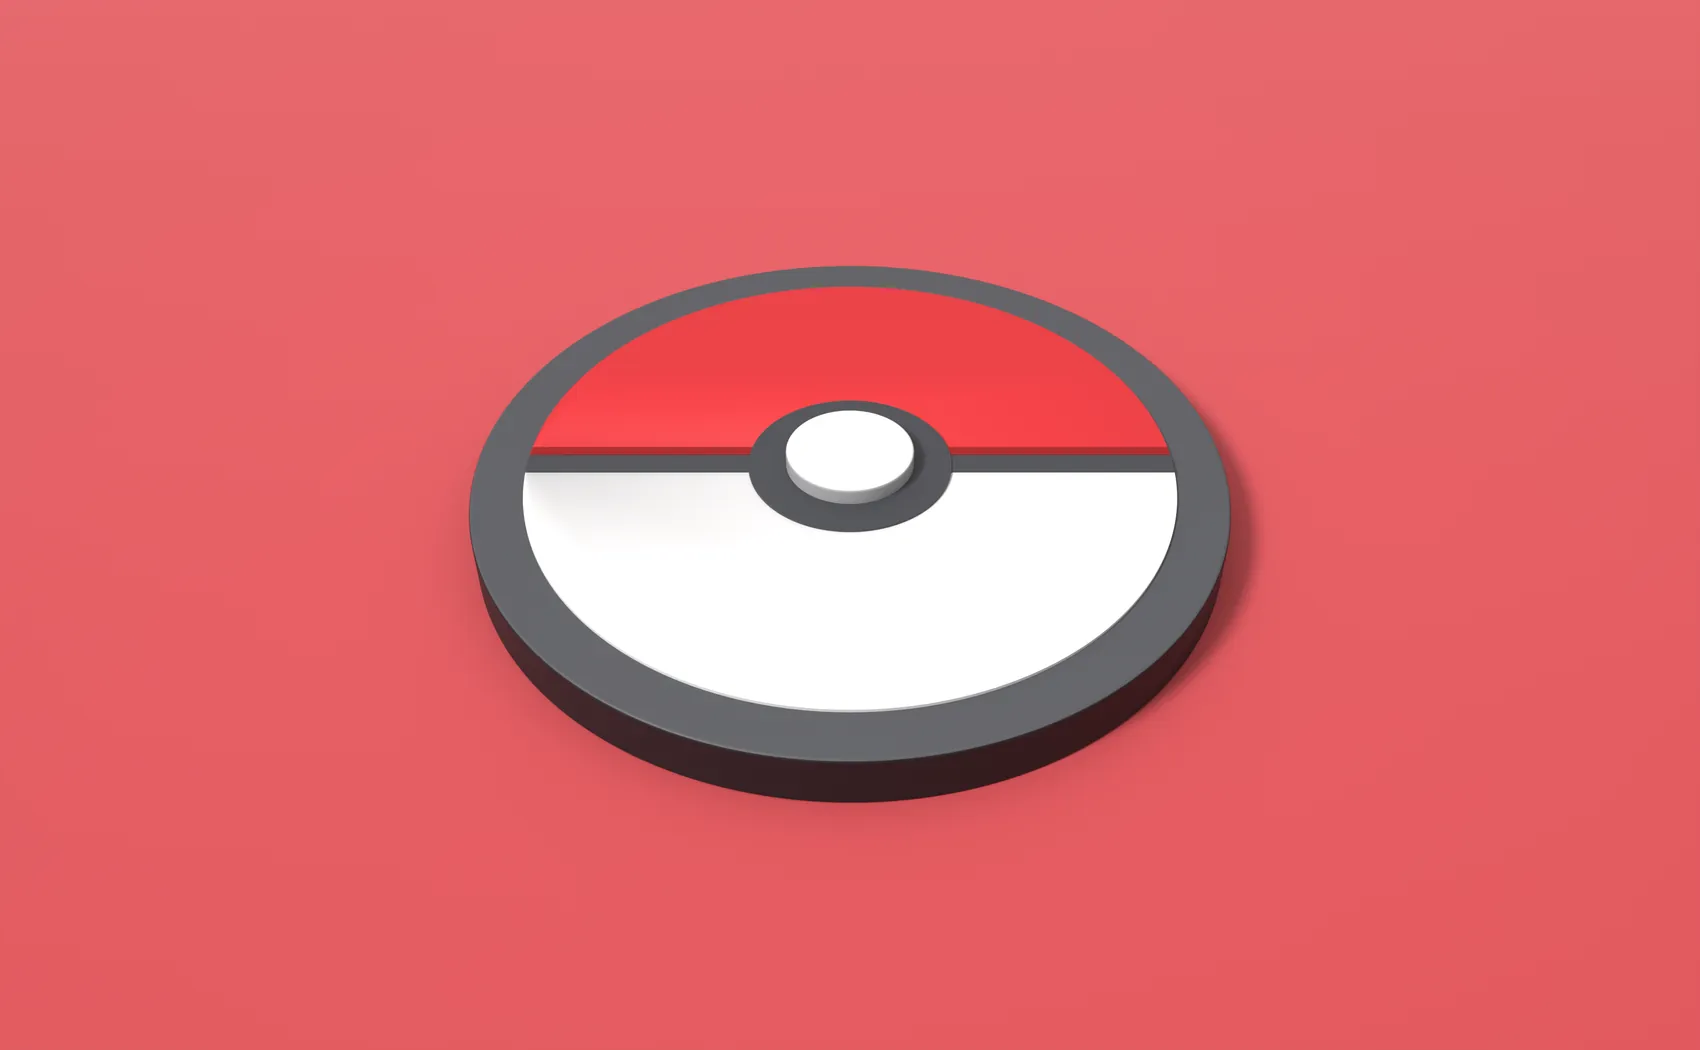
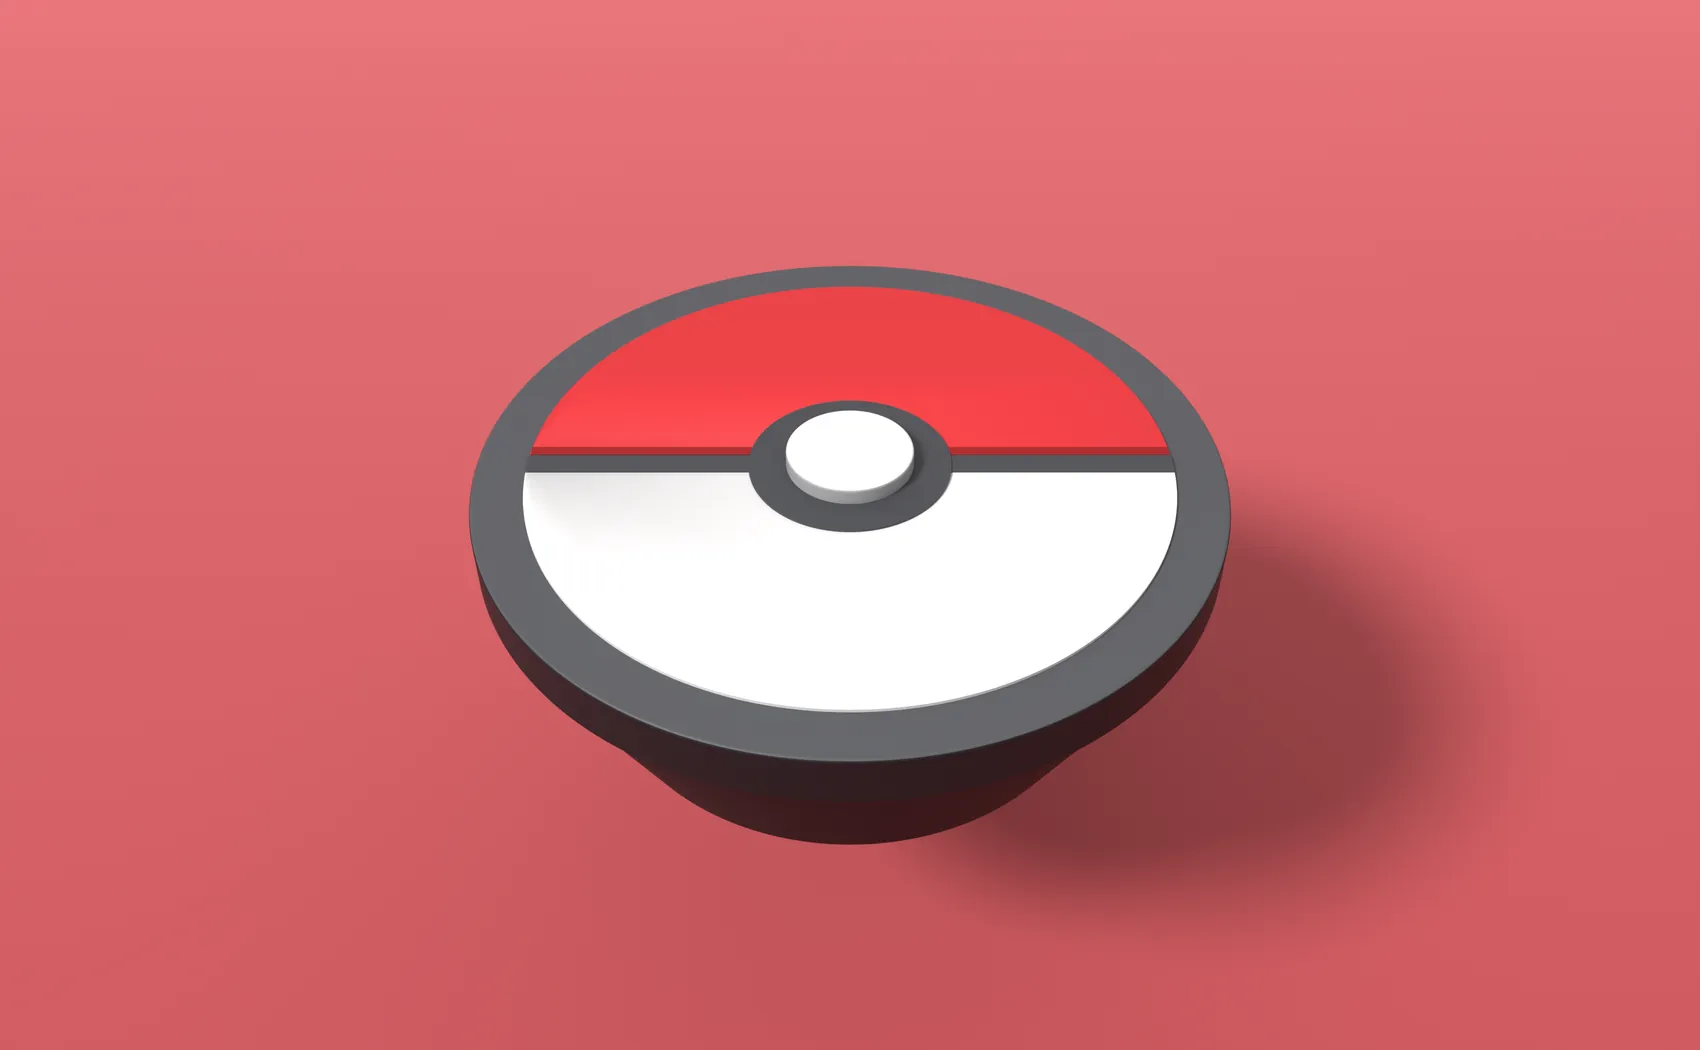
Carrusel: plataforma flotante (imagen fija) y mini plataformas circulares en lugar de las bases de Poké Ball

Changed region(s): [[0.2494, 0.4267, 0.9041, 1.0], [0.6859, 0.3962, 0.7171, 0.4267]]

diff --git a/public/board3d.js b/public/board3d.js
@@ -869,29 +869,22 @@ function makeBubble(o){
  const ring=new THREE.Mesh(barRing(1),new THREE.MeshBasicMaterial({color:BAR_COL,transparent:true,opacity:.95,depthWrite:false})); ring.rotation.x=-Math.PI/2; ring.position.y=.04; g.add(ring);
  scene.add(g); return {g,wall,ring,tex,k:1,col:BAR_COL};
 }
-const PAD_COL={poke:['#cf5a4e',null],great:['#4f7cc9','#cf6474'],ultra:['#3b3b45','#d9b84c'],master:['#7a52b8','#d987b4']}, padTex={}, padVis=new Map();
-function padTexture(kind){
- if(padTex[kind]) return padTex[kind];
- const [top,acc]=PAD_COL[kind]||PAD_COL.poke;
- return padTex[kind]=canvasTex(256,256,(c,w)=>{ const m=w/2, R=w*.46;
-   c.save(); c.beginPath(); c.arc(m,m,R,0,Math.PI*2); c.clip();
-   c.fillStyle='#ece6da'; c.fillRect(0,0,w,w); c.fillStyle=top; c.fillRect(0,0,w,m);
-   if(kind==='great'&&acc){ c.fillStyle=acc; for(const sx of [-1,1]){ c.beginPath(); c.ellipse(m+sx*R*.55,m-R*.42,R*.16,R*.36,sx*.5,0,Math.PI*2); c.fill(); } }
-   if(kind==='ultra'&&acc){ c.fillStyle=acc; c.fillRect(m-R*.75,m-R*.62,R*.32,R*.62); c.fillRect(m+R*.43,m-R*.62,R*.32,R*.62); }
-   if(kind==='master'&&acc){ c.fillStyle=acc; for(const sx of [-1,1]){ c.beginPath(); c.arc(m+sx*R*.55,m-R*.48,R*.17,0,Math.PI*2); c.fill(); }
-     c.fillStyle='#f4eef8'; c.font='bold '+(R*.42|0)+'px sans-serif'; c.textAlign='center'; c.textBaseline='middle'; c.fillText('M',m,m-R*.5); }
-   c.restore();
-   c.lineWidth=R*.09; c.strokeStyle='#2a2a33'; c.beginPath(); c.moveTo(m-R,m); c.lineTo(m+R,m); c.stroke();
-   c.beginPath(); c.arc(m,m,R,0,Math.PI*2); c.stroke();
-   c.fillStyle='#ece6da'; c.beginPath(); c.arc(m,m,R*.2,0,Math.PI*2); c.fill(); c.stroke();
- },false);
-}
+// Puesto de cada jugador: una mini plataforma circular a juego con la grande (lateral oscuro, aro gris, cara clara y una línea azul claro como las barreras); la ficha pisa su cara (TOP)
+const padVis=new Map(); let padRes=null;
+function padRes0(){
+ if(padRes) return padRes;
+ const top=canvasTex(256,256,(c,w)=>{ const m=w/2, R=w/2-1;
+   c.fillStyle='#7a7f89'; c.beginPath(); c.arc(m,m,R,0,Math.PI*2); c.fill();
+   const gr=c.createRadialGradient(m,m*.8,R*.1,m,m,R*.84); gr.addColorStop(0,'#4a4f59'); gr.addColorStop(1,'#2e3138'); c.fillStyle=gr; c.beginPath(); c.arc(m,m,R*.84,0,Math.PI*2); c.fill();
+   c.strokeStyle='#8fdcff'; c.lineWidth=R*.06; c.beginPath(); c.arc(m,m,R*.68,0,Math.PI*2); c.stroke();
+   c.strokeStyle='rgba(0,0,0,.35)'; c.lineWidth=R*.03; c.beginPath(); c.arc(m,m,R*.84,0,Math.PI*2); c.stroke(); },false);
+ return padRes={geo:new THREE.CylinderGeometry(1.15,1.08,TOP,48),side:new THREE.MeshLambertMaterial({color:'#1d1e22'}),top}; }
 function stepPads(list){
  const seen=new Set();
  for(const o of list||[]){ let v=padVis.get(o.id);
-   if(!v||v.ball!==o.ball){ if(v) scene.remove(v.m); v={ball:o.ball,m:new THREE.Mesh(new THREE.CircleGeometry(1.15,40),new THREE.MeshBasicMaterial({map:padTexture(o.ball),transparent:true,opacity:.8,depthWrite:false}))}; v.m.rotation.x=-Math.PI/2; scene.add(v.m); padVis.set(o.id,v); }
-   seen.add(o.id); const p=W3(o.x,o.y,0); v.m.position.set(p.x,.03,p.z); v.m.material.opacity=o.dim?.35:.7; }
- for(const [id,v] of padVis) if(!seen.has(id)){ scene.remove(v.m); v.m.geometry.dispose(); v.m.material.dispose(); padVis.delete(id); }
+   if(!v){ const R=padRes0(); v={m:new THREE.Mesh(R.geo,[R.side,new THREE.MeshBasicMaterial({map:R.top}),R.side])}; scene.add(v.m); padVis.set(o.id,v); }
+   seen.add(o.id); const p=W3(o.x,o.y,0); v.m.position.set(p.x,TOP/2,p.z); v.m.material[1].color.set(o.dim?'#b8bcc4':'#ffffff'); }
+ for(const [id,v] of padVis) if(!seen.has(id)){ scene.remove(v.m); v.m.material[1].dispose(); padVis.delete(id); }
 }
 function stepBubbles(list,now){
  const seen=new Set();

diff --git a/public/game.js b/public/game.js
@@ -1602,7 +1602,6 @@ function takeCarousel(p,i){ const o=G.carousel.opts[i]; if(!o||o.taken) return f
 function finishCarousel(){ const C=G.carousel; for(const o of C.opts) if(!o.taken) returnToPool(o.key,1); G.carousel=null; renderUI(); later(nextRound,400); }
 const releaseAt=idx=>8+3.5*Math.floor(idx/2); // la primera pareja sale a los 8 s (da tiempo a ver todos los Pokémon y objetos y elegir); las demás, cada 3,5 s
 // Cada pareja que sale a la vez empieza en lados opuestos (misma distancia a todos los Pokémon)
-const BALL_OF=idx=>['poke','great','ultra','master'][Math.min(3,Math.floor(idx/2))]; // ball de cada pareja de salida
 const carAng=(j,n)=>Math.floor(j/2)*Math.PI/Math.ceil(n/2)+(j%2)*Math.PI+Math.PI/8;
 // Instantánea del equipo para el historial: guarda nombre y número de Pokédex, no solo la clave (sobrevive a cambios futuros)
 function compSnap(p){ const tt=traitTiers(p), tc=traitCounts(p);
@@ -2794,8 +2793,8 @@ function draw(){
  if(!$('menu').classList.contains('hidden')||!$('auth').classList.contains('hidden')){ ctx.clearRect(0,0,view.W,view.H); return; }
  const A=playing?sceneActors():[];
  const tP=viewedPlayer(), tsp=trainerSpots();
- const bubbles=inCar?G.carousel.order.map((p,idx)=>{ const a=G.carousel.av[p.id]; if(!a||a.x==null||a.rel||a.done) return null; const left=releaseAt(idx)-G.carousel.t; const [vx,vy]=carPos(p.id,...carV(a.x,a.y)); return {id:p.id,x:vx,y:vy+geo.R*.35,ball:BALL_OF(idx),k:clamp(left/3,0,1)}; }).filter(Boolean):[];
- const pads=inCar?(()=>{ const {cx,cy,rr}=carGeo(), C=G.carousel; return C.order.map((p,idx)=>{ const a=C.av[p.id]||{}, an=carAng(idx,C.order.length), [px,py]=carV(cx+Math.cos(an)*rr*1.12,cy+Math.sin(an)*rr*1.12); return {id:p.id,x:px,y:py+geo.R*.35,ball:BALL_OF(idx),dim:!!(a.rel||a.done)}; }); })():[];
+ const bubbles=inCar?G.carousel.order.map((p,idx)=>{ const a=G.carousel.av[p.id]; if(!a||a.x==null||a.rel||a.done) return null; const left=releaseAt(idx)-G.carousel.t; const [vx,vy]=carPos(p.id,...carV(a.x,a.y)); return {id:p.id,x:vx,y:vy+geo.R*.35,k:clamp(left/3,0,1)}; }).filter(Boolean):[];
+ const pads=inCar?(()=>{ const {cx,cy,rr}=carGeo(), C=G.carousel; return C.order.map((p,idx)=>{ const a=C.av[p.id]||{}, an=carAng(idx,C.order.length), [px,py]=carV(cx+Math.cos(an)*rr*1.12,cy+Math.sin(an)*rr*1.12); return {id:p.id,x:px,y:py+geo.R*.35,dim:!!(a.rel||a.done)}; }); })():[];
  const links=[]; if(sceneLinks.length>1){ const rest=sceneLinks.slice(1); let cur=sceneLinks[0]; while(rest.length){ let bi=0,bd=1e9; rest.forEach((q,i)=>{ const d=Math.hypot(q[0]-cur[0],q[1]-cur[1]); if(d<bd){bd=d;bi=i;} }); const nx=rest.splice(bi,1)[0]; links.push([cur[0],cur[1],nx[0],nx[1]]); cur=nx; } }
  B3.render({arena:playing?bgKind():'glade',car:inCar?carGeo():null,pads,links,actors:A,bubbles,orbs:playing?orbList():[],totem:playing&&G.phase!=='carousel'?{x:geo.ox-geo.R*.35,y:cellXY(0,4)[1]-geo.R*.75}:null,
    floorCount:playing&&!inCar?floorCountSpec():null,pandora:playing&&!inCar&&tP&&tP.mods&&tP.mods.pandoraBench?[BENCH-3,BENCH-2,BENCH-1]:null,interest:playing&&G.phase!=='carousel'?{x:geo.ox-geo.R*.55,y:cellXY(0,7)[1]-geo.R*.2,dy:-geo.R*.85,n:Math.min(tP.mods.maxInterest,5,Math.floor(tP.gold/10))}:null,fx:inCombat?viewCombat().fx:[],cellPx:vXY,unitPx:unitXY,cells:{drop:dragBoard,hover:cell&&cell[1]>=4?cell[1]*7+cell[0]:-1},benchHover:bh});

diff --git a/.claude/skills/pokemon-data-asset-pipeline/scripts/carrusel-pokeball.py b/.claude/skills/pokemon-data-asset-pipeline/scripts/carrusel-pokeball.py
@@ -16,6 +16,7 @@ R = 6.825          # radio de la plataforma (k·rr en unidades del 3D)
 EL, DIST = 39.75, 28.0
 DISC = .441       # ancho de la plataforma en la imagen, en fracción del ancho (1500 px en 3400)
 CENTER_Y = 0.41     # altura del centro de la plataforma en la imagen (desde arriba): deja más suelo abajo, donde la pantalla muestra más
+SUELO = -12.0       # el suelo queda muy por debajo: la plataforma flota (su sombra cae lejos y difusa)
 
 bpy.ops.wm.read_factory_settings(use_empty=True)
 sc = bpy.context.scene
@@ -68,14 +69,18 @@ for o in (band, ln):
     bo = o.modifiers.new('recorte', 'BOOLEAN'); bpy.ops.mesh.primitive_cylinder_add(vertices=192, radius=FACE, depth=2, location=(0, 0, 0))
     cut = bpy.context.object; cut.hide_render = True; cut.hide_viewport = True; bo.operation = 'INTERSECT'; bo.object = cut
 
-# Suelo rojo (sin bordes visibles) con un degradado suave: más claro detrás, como en la referencia
-bpy.ops.mesh.primitive_plane_add(size=400, location=(0, 0, -1.0)); fl = bpy.context.object; fl.name = 'suelo'
+# Base de isla flotante bajo el disco: un cono truncado oscuro que asoma por delante
+bpy.ops.mesh.primitive_cone_add(vertices=192, radius1=R * .72, radius2=R * .98, depth=3.6, location=(0, 0, -2.8)); base = bpy.context.object; base.name = 'base'
+base.data.materials.append(mat('base', hexc('#121214'), .7)); bpy.ops.object.shade_smooth_by_angle(angle=math.radians(30))
+
+# Suelo rojo muy por debajo (sin bordes visibles), más claro a lo lejos: da profundidad
+bpy.ops.mesh.primitive_plane_add(size=600, location=(0, 0, SUELO)); fl = bpy.context.object; fl.name = 'suelo'
 mf = bpy.data.materials.new('suelo'); mf.use_nodes = True; nt = mf.node_tree; b = nt.nodes['Principled BSDF']
 b.inputs['Roughness'].default_value = .8
 tc = nt.nodes.new('ShaderNodeTexCoord'); sep = nt.nodes.new('ShaderNodeSeparateXYZ'); mr = nt.nodes.new('ShaderNodeMapRange')
 ramp = nt.nodes.new('ShaderNodeValToRGB')
-mr.inputs['From Min'].default_value = -20; mr.inputs['From Max'].default_value = 40
-ramp.color_ramp.elements[0].color = (*[c ** 2.2 for c in hexc('#b23a40')], 1); ramp.color_ramp.elements[1].color = (*[c ** 2.2 for c in hexc('#d0585d')], 1)
+mr.inputs['From Min'].default_value = -40; mr.inputs['From Max'].default_value = 60
+ramp.color_ramp.elements[0].color = (*[c ** 2.2 for c in hexc('#9a2a31')], 1); ramp.color_ramp.elements[1].color = (*[c ** 2.2 for c in hexc('#d3646a')], 1)
 nt.links.new(tc.outputs['Object'], sep.inputs[0]); nt.links.new(sep.outputs['Y'], mr.inputs['Value']); nt.links.new(mr.outputs['Result'], ramp.inputs['Fac']); nt.links.new(ramp.outputs['Color'], b.inputs['Base Color'])
 fl.data.materials.append(mf)
 

diff --git a/CLAUDE.md b/CLAUDE.md
@@ -74,7 +74,7 @@ El detalle, con los nombres de las funciones, está en la skill `autochess-syste
   - 224 aumentos, con 11 de héroe; muchos inspirados en TFT Set 18 (`ST(fases)` limita en qué fase salen: 2 = 2-1, 3 = 3-2, 4 = 4-2; `ex` agrupa las variantes que se excluyen entre sí; sin sprite propio usan uno por categoría, `CAT_IMG`). Sin aumentos de poco oro: los premios son grandes (Escalera de Sinergias, Unidos Venceremos, Zona Safari, Llamada del Clan…). La **Llamada al Caos** (prismática) y el **Eco del Caos** (oro) solo salen en 4-2 y dan un premio grande al azar sin maldiciones (`CHAOS`).
 - **Aros bajo las fichas**: solo se ven en la ficha que se arrastra o la seleccionada con clic (`spec.drag`/`spec.sel` en `board3d.js`); ni en el tablero, ni en la banca, ni en la minileyenda.
 - **Cristales de intereses**: solo se ven los ganados; cada uno brota de su hueco (sube, crece, gira y destella en 0,7 s) al alcanzar ese interés y se hunde si se pierde; una vez aparecidos están completamente quietos, igual que la torre de aumentos (`stepProps`). **No hay ningún temblor de pantalla ni de cámara, nunca** (ni en los golpes fuertes): la imagen, el 3D, la torre y los cristales quedan siempre quietos (prueba `en combate nada tiembla` en `partida.spec.js`); no lo vuelvas a añadir.
-- **Carrusel**: la primera pareja sale a los 8 s (para ver todos los Pokémon y objetos y elegir) y las demás cada 3,5 s (`releaseAt`). Cada jugador espera dentro de una **barrera azul claro** (pared translúcida con destellos que giran y aro en el suelo, `makeBubble`/`stepBubbles` en `board3d.js`; sin cúpulas): la propia barrera es el temporizador y se va abriendo en los 3 s antes de salir (`B3.bars` para las pruebas). El carrusel es más grande que antes (`CAR_K`=1,4 en `carGeo`: las fichas no crecen, hay más sitio para caminar). **Vista girada**: tu puesto queda siempre abajo (`carTheta`/`carV`; solo dibujo y ratón: la simulación y la red no giran). Tras coger su Pokémon, las personas siguen caminando con clic derecho hasta que acaba (`carmove` se acepta también con `done`; el destino se limita a un círculo de 1,2 radios); bots y ausentes vuelven a su puesto. Su fondo es una imagen: una plataforma Poké Ball sobre suelo rojo renderizada en Blender con la misma perspectiva que la cámara del carrusel (`public/arena/carrusel_pb.webp` y `carrusel_pb1x.webp`, 36 y 14 KB; `carrusel-pokeball.py` de la skill de recursos, que también da los puntos N/S/W/E de `PLAZA_IMG`), encajada con una transformación afín en el círculo del carrusel (`PLAZA_IMG`, `affineCss`); los Pokémon del carrusel usan una clave de actor estable (`'co'+i+':'+key`) para no recrear el modelo con cada mensaje del servidor.
+- **Carrusel**: la primera pareja sale a los 8 s (para ver todos los Pokémon y objetos y elegir) y las demás cada 3,5 s (`releaseAt`). Cada jugador sale de su **mini plataforma** circular (cilindro bajo de altura `TOP` con cara gris pizarra, aro claro y una línea azul claro; `stepPads`, ya sin las bases de Poké Ball de colores) y espera dentro de una **barrera azul claro** (pared translúcida con destellos que giran y aro en el suelo, `makeBubble`/`stepBubbles` en `board3d.js`; sin cúpulas): la propia barrera es el temporizador y se va abriendo en los 3 s antes de salir (`B3.bars` para las pruebas). El carrusel es más grande que antes (`CAR_K`=1,4 en `carGeo`: las fichas no crecen, hay más sitio para caminar). **Vista girada**: tu puesto queda siempre abajo (`carTheta`/`carV`; solo dibujo y ratón: la simulación y la red no giran). Tras coger su Pokémon, las personas siguen caminando con clic derecho hasta que acaba (`carmove` se acepta también con `done`; el destino se limita a un círculo de 1,2 radios); bots y ausentes vuelven a su puesto. Su fondo es una imagen fija (sin animaciones): una plataforma Poké Ball **flotando** (base cónica oscura debajo y el suelo rojo muy abajo, `SUELO`, con la sombra lejos y difusa) renderizada en Blender con la misma perspectiva que la cámara del carrusel (`public/arena/carrusel_pb.webp` y `carrusel_pb1x.webp`, 36 y 14 KB; `carrusel-pokeball.py` de la skill de recursos, que también da los puntos N/S/W/E de `PLAZA_IMG`), encajada con una transformación afín en el círculo del carrusel (`PLAZA_IMG`, `affineCss`); los Pokémon del carrusel usan una clave de actor estable (`'co'+i+':'+key`) para no recrear el modelo con cada mensaje del servidor.
 - **Tipo de ataque en la ficha de la tienda** (`shopTip`): arriba a la derecha, un puño blanco si `range` ≤ 2 (cuerpo a cuerpo) o una diana blanca si es mayor (`rangeIcon`, SVG propio sin fondo; no se usó la imagen de stock).
 - **Sin menú del navegador en la partida**: un `contextmenu` en captura (`bindEvents`) lo anula en todo el juego (aumentos, tienda, objetos, sinergias, barra superior, lateral, ventanas) salvo en el menú, el acceso y los campos de texto; prueba en `partida.spec.js`.
 - **Movimiento de la minileyenda**: al llegar a su destino se queda mirando hacia donde caminaba (en `board3d.js`, una vez que ha caminado ya no vuelve a la diagonal de partida, `walked`; prueba en `partida.spec.js` con `B3.faceOf`). Clic derecho para ir a un punto; manteniéndolo pulsado, sigue al puntero (`tacHold`/`tacGoto`; en multijugador, un mensaje cada 150 ms como mucho). El clic derecho nunca abre la ficha de un Pokémon (solo el izquierdo).
